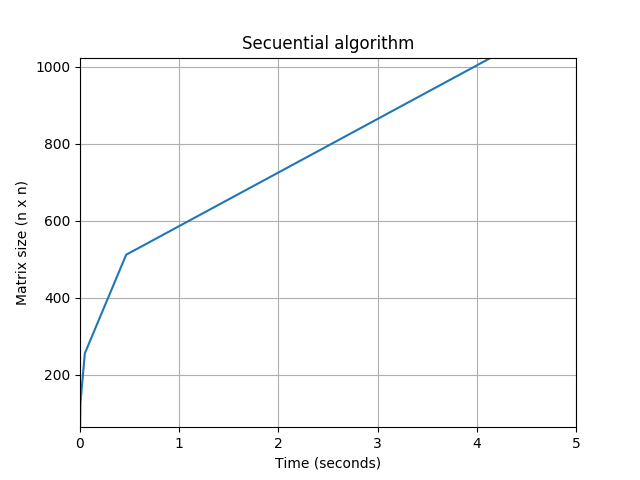
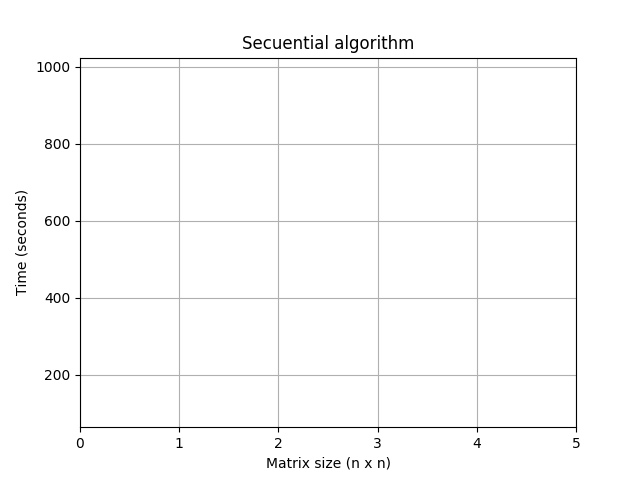
markdown doc

diff --git a/parcial2/segunda_parte/plotting.py b/parcial2/segunda_parte/plotting.py
@@ -28,10 +28,10 @@ secExeTime = [ans64[1], ans128[1], ans256[1], ans512[1], ans1024[1]]
 plt.axis([0.000000, 5, 64, 1024])
 plt.grid(True)
 plt.title('Secuential algorithm')
-plt.xlabel('Time (seconds)')
-plt.ylabel('Matrix size (n x n)')
-plt.plot(secExeTime, matSize)
-#plt.show()
+plt.ylabel('Time (seconds)')
+plt.xlabel('Matrix size (n x n)')
+plt.plot(matSize, secExeTime)
+plt.show()
 fig1.savefig('images/secuential.png', format="png")
 
 fig2 = plt.gcf()
@@ -40,10 +40,12 @@ globalExeTime = [ans64[2], ans128[2], ans256[2], ans512[2], ans1024[2]]
 plt.axis([0.000, 0.020, 64, 1024])
 plt.grid(True)
 plt.title('Global memory algorithm')
-plt.xlabel('Time (seconds)')
-plt.ylabel('Matrix size (n x n)')
-plt.plot(globalExeTime, matSize)
-#plt.show()
+plt.ylabel('Time (seconds)')
+plt.xlabel('Matrix size (n x n)')
+plt.plot(matSize, secExeTime, matSize, globalExeTime)
+plt.legend(('Secuential','Global-mem'),
+           loc='upper right')
+plt.show()
 fig2.savefig('images/global.png', format="png")
 
 fig3 = plt.gcf()
@@ -52,10 +54,12 @@ sharedExeTime = [ans64[3], ans128[3], ans256[3], ans512[3], ans1024[3]]
 plt.axis([0.000, 0.009, 64, 1024])
 plt.grid(True)
 plt.title('Shared memory algorithm')
-plt.xlabel('Time (seconds)')
-plt.ylabel('Matrix size (n x n)')
-plt.plot(globalExeTime, matSize)
-#plt.show()
+plt.ylabel('Time (seconds)')
+plt.xlabel('Matrix size (n x n)')
+plt.plot(matSize, secExeTime, matSize, sharedExeTime)
+plt.legend(('Secuential','Shared-mem'),
+           loc='upper right')
+plt.show()
 fig3.savefig('images/shared.png', format="png")
 
 speedUpGlobal = [ans64[1]/ans64[2], ans128[1]/ans128[2], ans256[1]/ans256[2], ans512[1]/ans512[2], ans1024[1]/ans1024[2]]
@@ -68,7 +72,7 @@ plt.grid(True)
 plt.title('Speed up comparison')
 plt.ylabel('Speed up')
 plt.xlabel('Matrix size (n x n)')
-plt.plot(speedUpGlobal, matSize, speedUpShared,  matSize)
+plt.plot(matSize, speedUpGlobal, matSize, speedUpShared)
 plt.legend(('Global-mem','Shared-mem'),
            loc='upper right')
 plt.show()
